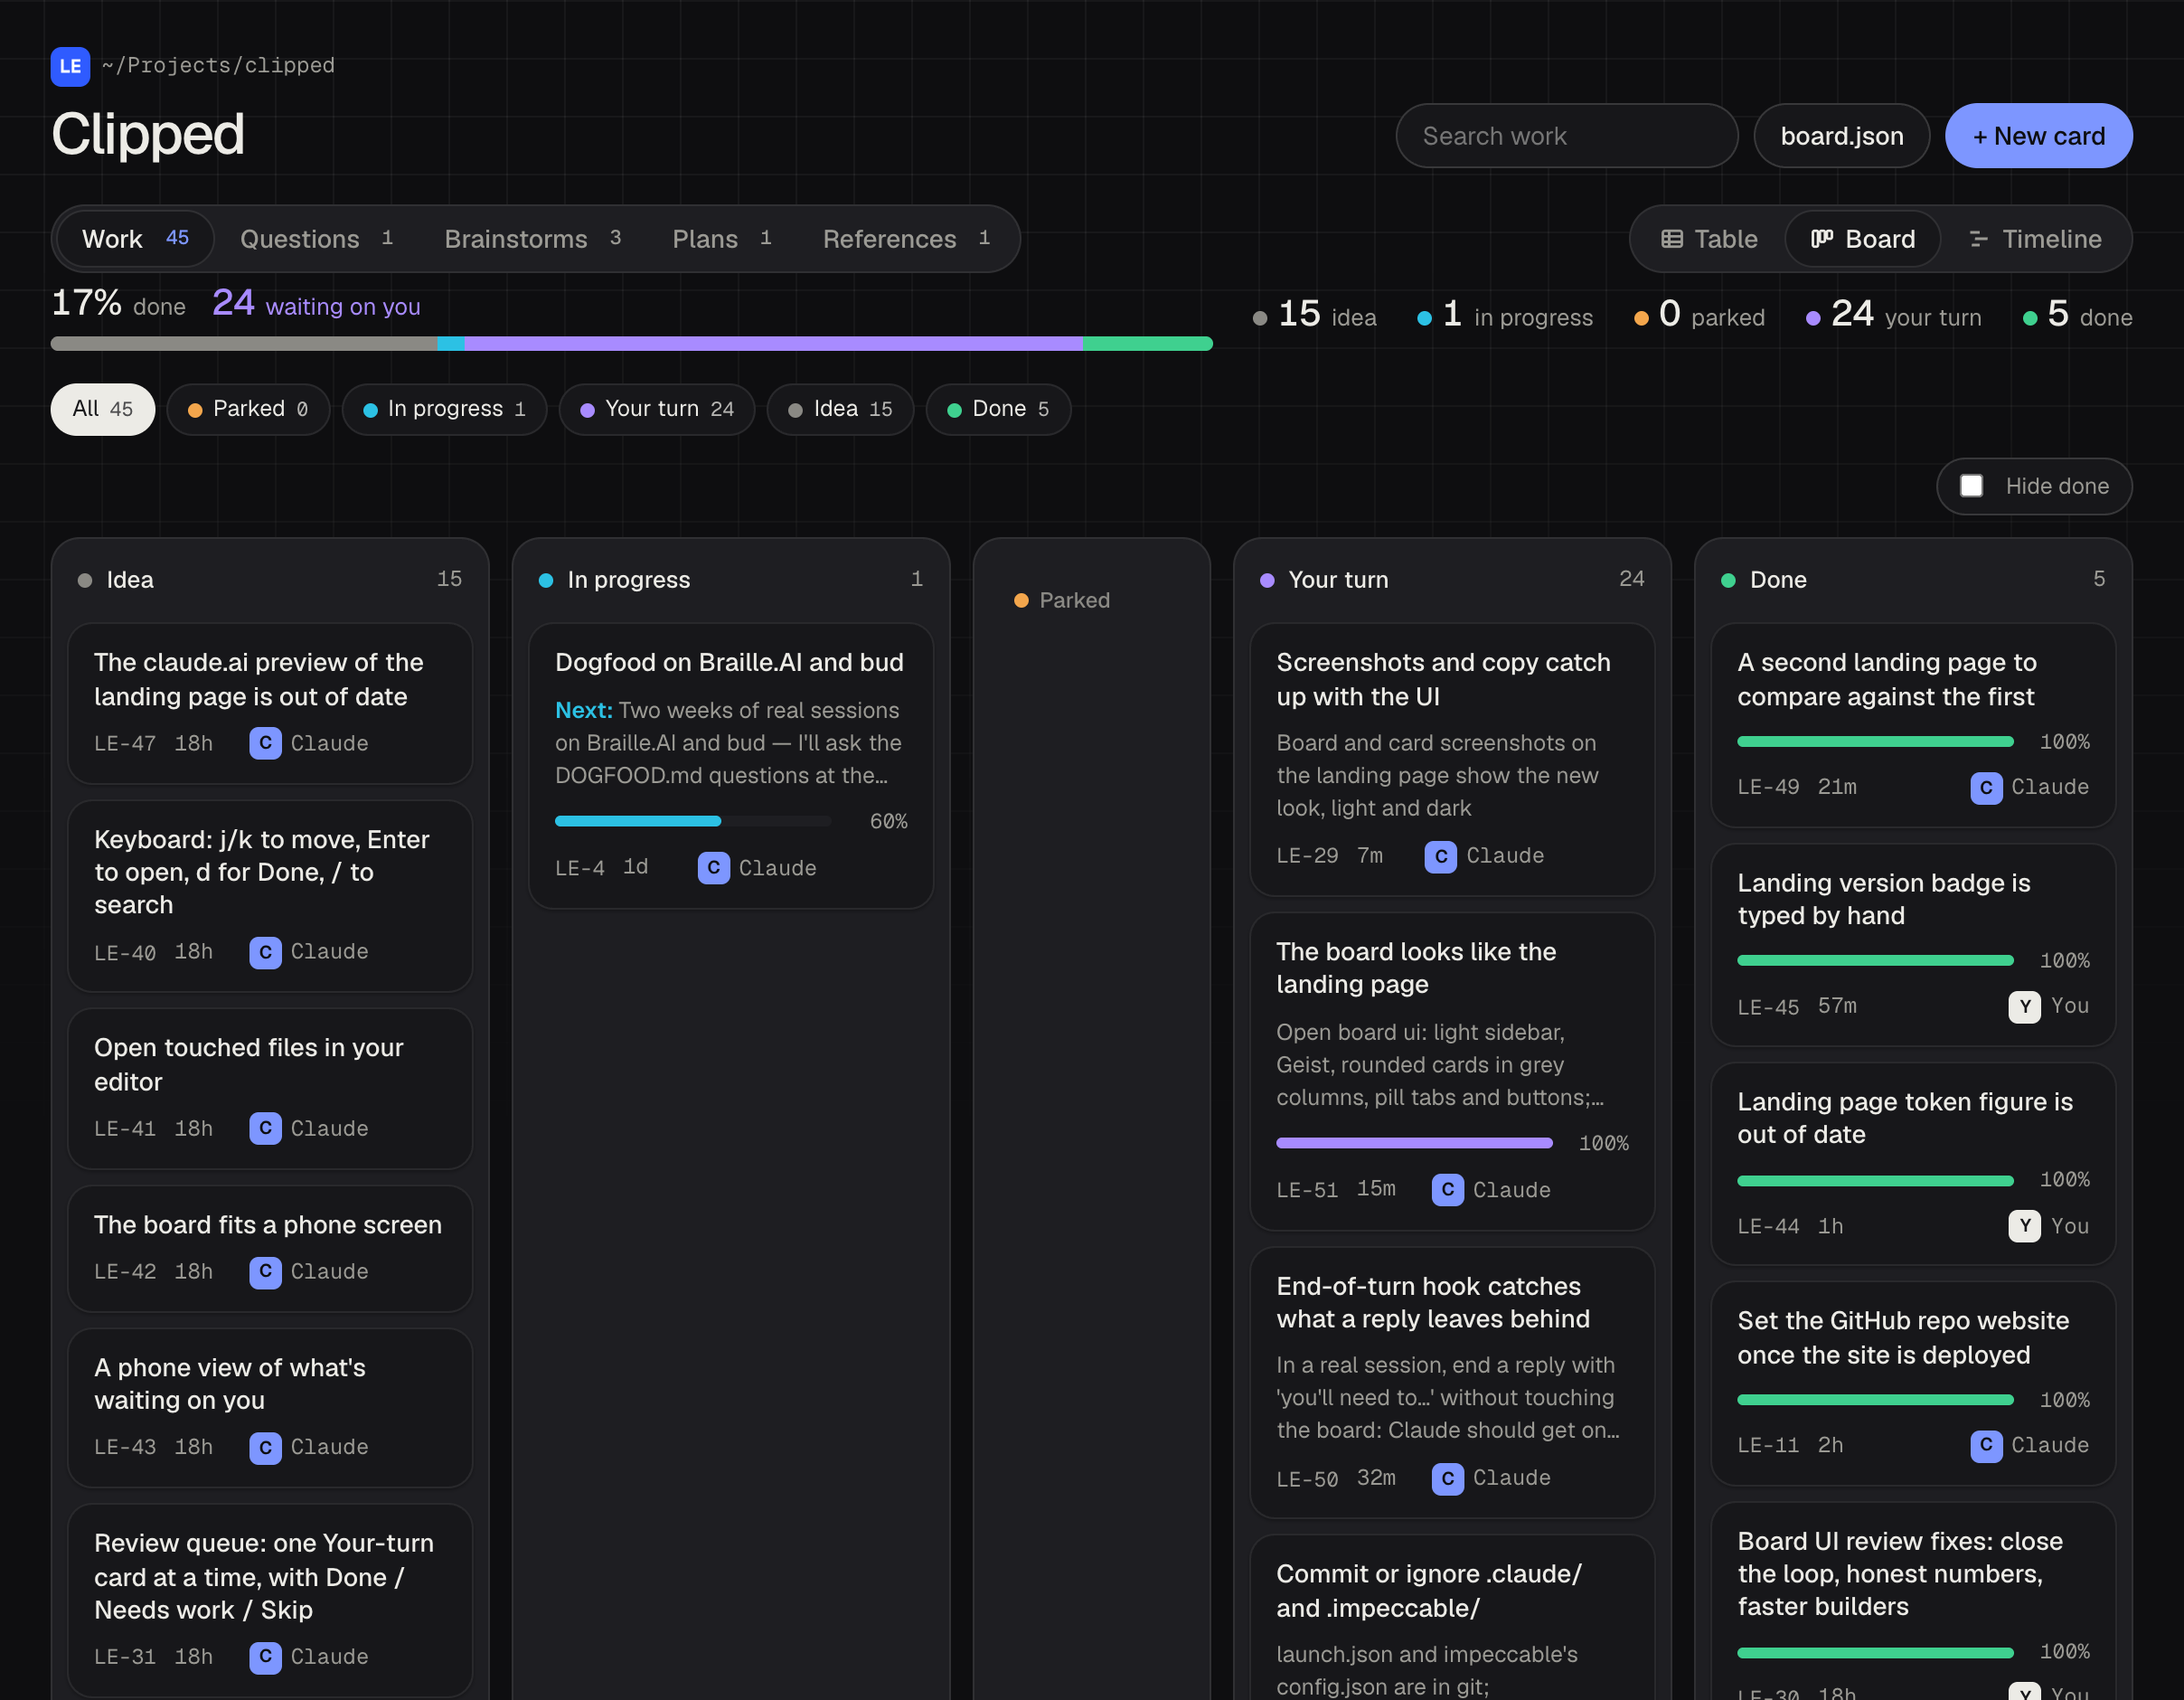
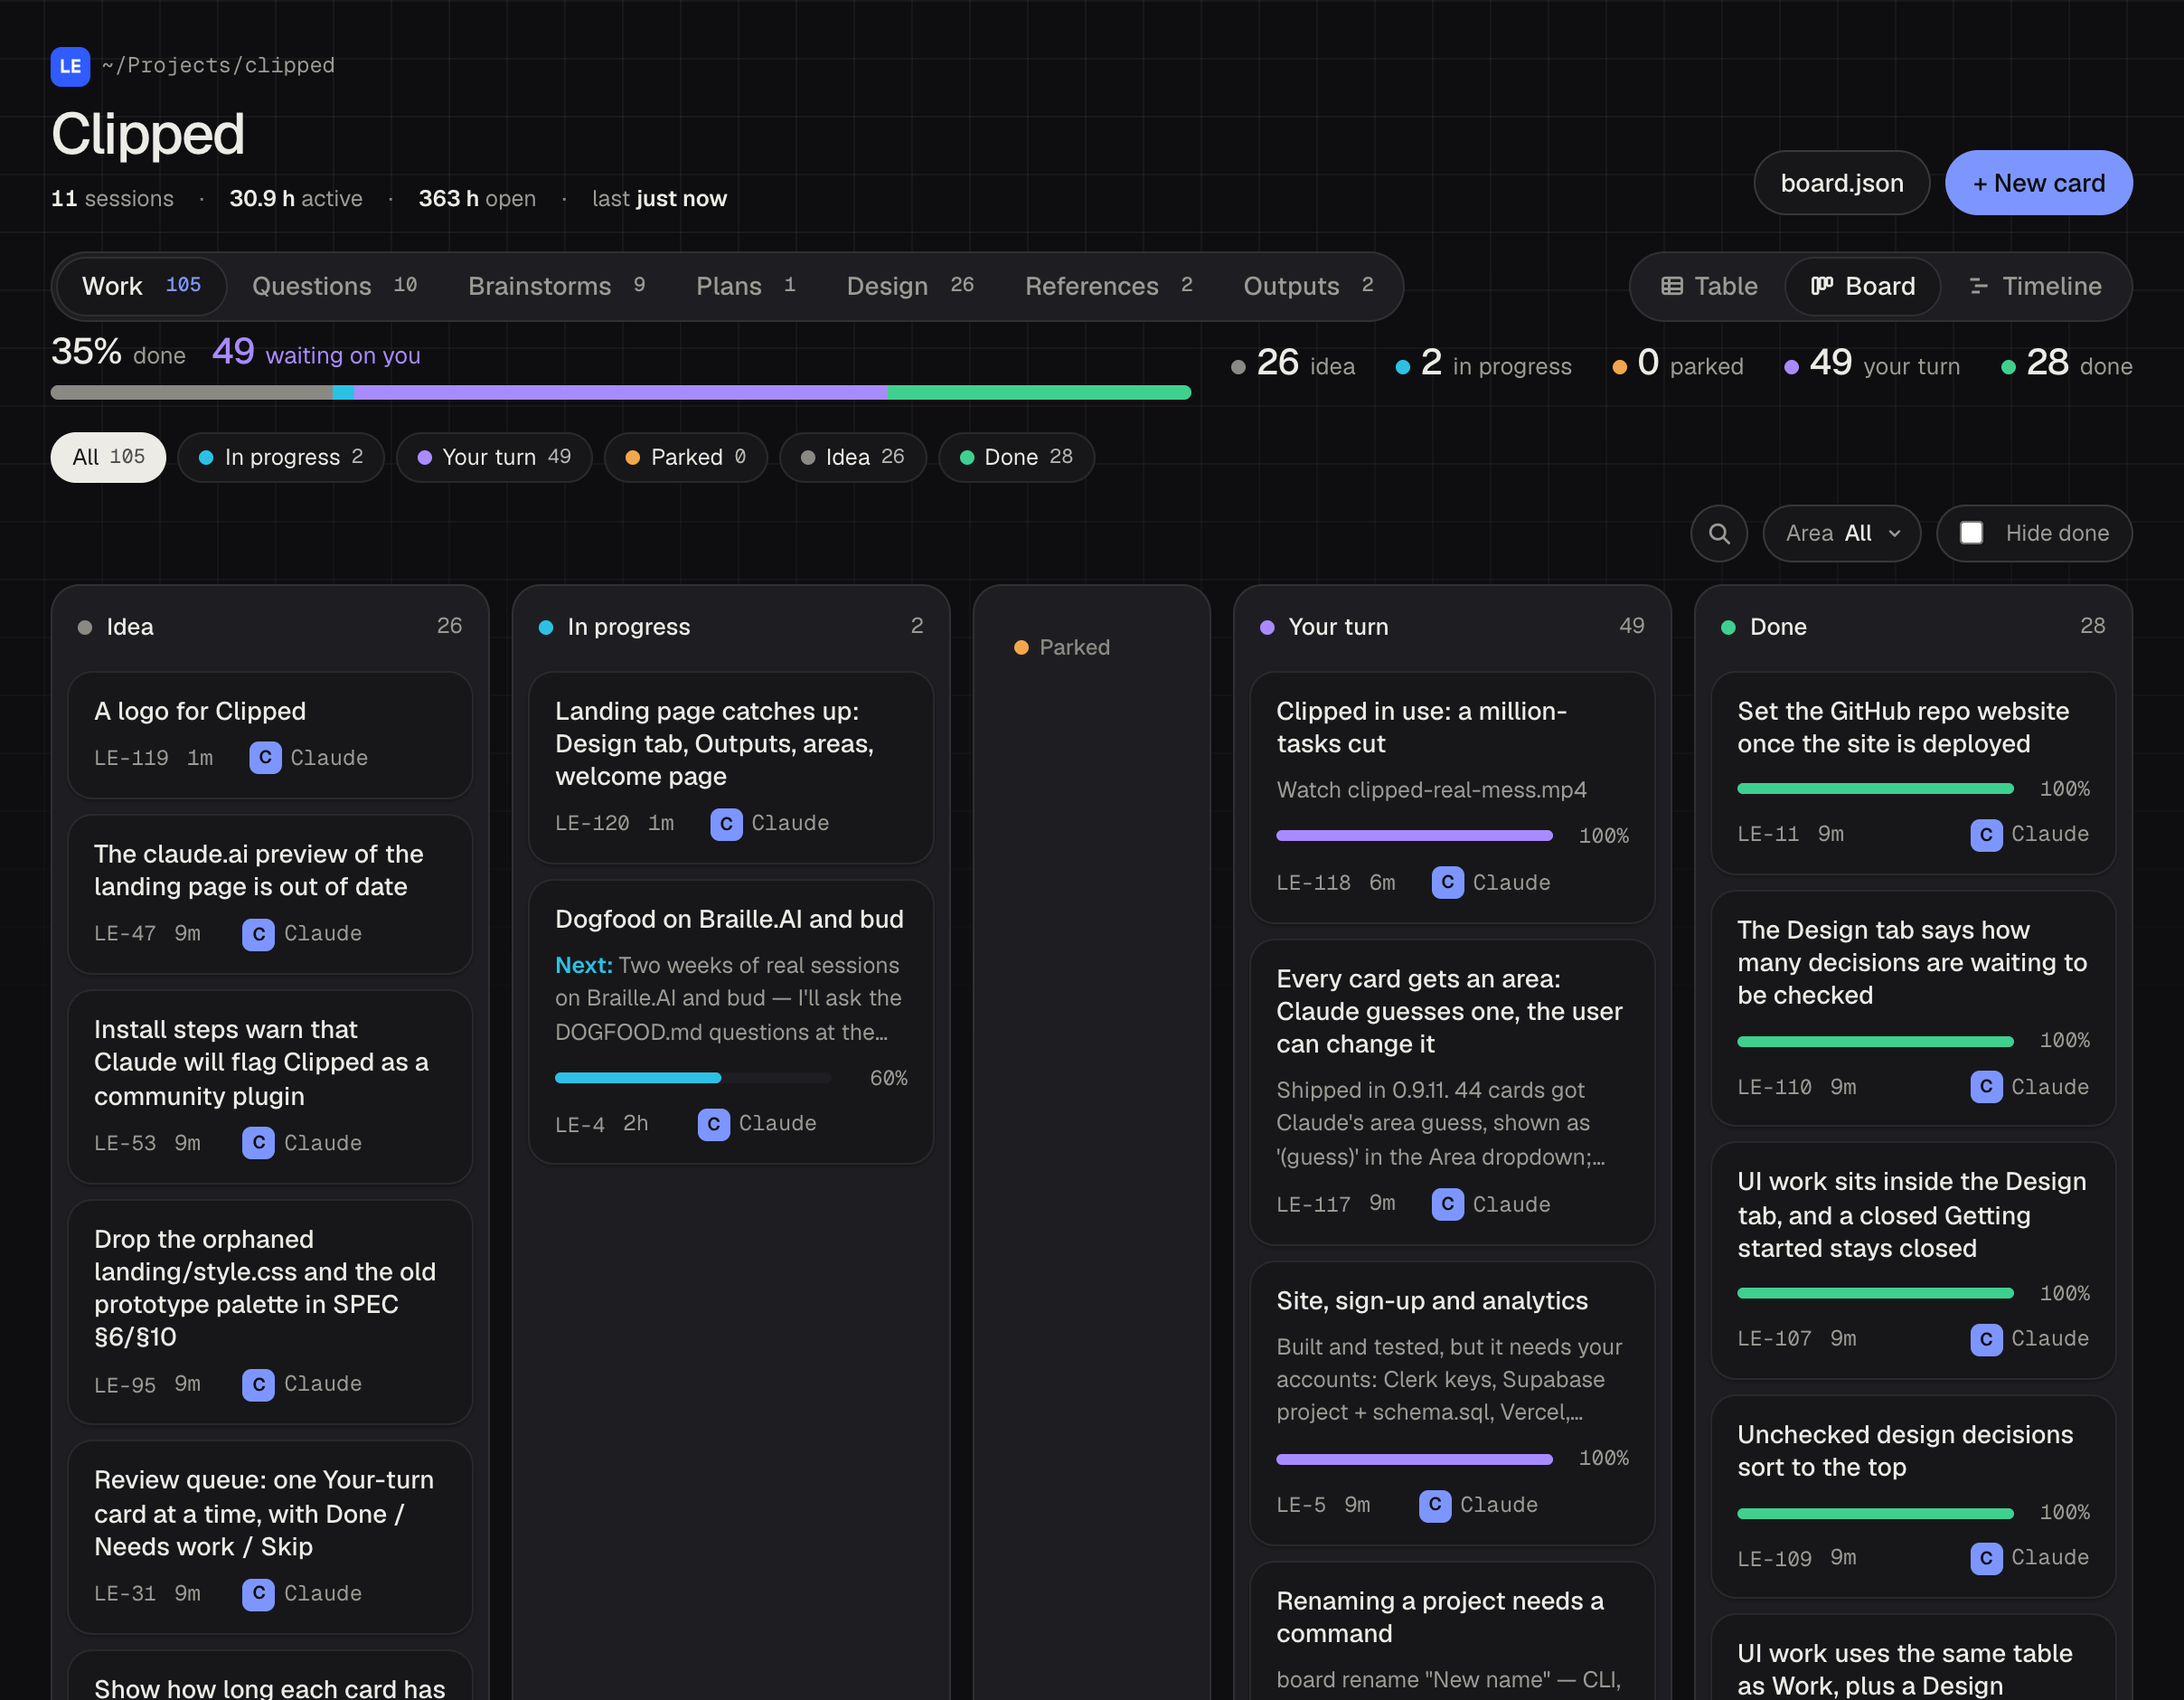
Landing page catches up: Design and Outputs tabs, areas, open the board

diff --git a/landing/index.html b/landing/index.html
@@ -466,7 +466,7 @@ footer a { color: var(--muted); text-underline-offset: 3px; }
       <p>No setup per project and nothing new to learn. You keep working the way you do.</p>
     </div>
     <ol class="steps grid rv">
-      <li><h3>Connects once</h3><p>Two commands add a plugin to Claude Code: the rules Claude follows, and three small hooks. Nothing to set up per project.</p></li>
+      <li><h3>Connects once</h3><p>Two commands add a plugin to Claude Code: the rules Claude follows, and a few small hooks. Nothing to set up per project.</p></li>
       <li><h3>Listens and sorts</h3><p>As you work, Claude sorts what's happening into a feature, a bug, a question or a brainstorm. Small talk isn't recorded.</p></li>
       <li><h3>Lands on your board</h3><p>Each project gets a board file in its own folder: what's in progress, what's parked halfway, what's waiting on you.</p></li>
     </ol>
@@ -515,9 +515,9 @@ footer a { color: var(--muted); text-underline-offset: 3px; }
       </div>
       <div class="card rv">
         <div class="vis">
-          <div class="chips"><span class="on">Work</span><span>Questions</span><span>Brainstorms</span><span>Plans</span><span>References</span></div>
+          <div class="chips"><span class="on">Work</span><span>Questions</span><span>Brainstorms</span><span>Plans</span><span>Design</span><span>References</span><span>Outputs</span></div>
         </div>
-        <div class="txt"><h3>Nothing lives only in the chat</h3><p>Cards for work with a next step. Notes for the thinking around it.</p></div>
+        <div class="txt"><h3>Nothing lives only in the chat</h3><p>Cards for work with a next step. Notes for the thinking around it. Design calls and what Claude made get their own tabs.</p></div>
       </div>
     </div>
   </section>
@@ -562,6 +562,7 @@ footer a { color: var(--muted); text-underline-offset: 3px; }
         <div class="hdr"><h3>Notes — the thinking around it</h3><p>Linked to the cards they led to.</p></div>
         <ul class="types">
           <li><span class="dot" style="background: var(--active)"></span><b>Brainstorm</b><span>A conversation that reached a decision. It says what was decided, not everything that was said.</span></li>
+          <li><span class="dot" style="background: var(--accent)"></span><b>Design decision</b><span>A call on how the product looks or reads — made by you or by Claude. The ones Claude made wait for you to check, in the Design tab.</span></li>
           <li><span class="dot" style="background: var(--done)"></span><b>Plan</b><span>A spec or plan you wrote. The document keeps the reasoning; the board tracks what came of it.</span></li>
           <li><span class="dot" style="background: var(--muted)"></span><b>Reference</b><span>A link you'd look up twice — only the ones that were actually used.</span></li>
         </ul>
@@ -586,6 +587,8 @@ footer a { color: var(--muted); text-underline-offset: 3px; }
           <li><b>Next step</b><span>When a card is parked, this is where you stopped.</span></li>
           <li><b>Steps</b><span>A checklist Claude ticks off as it goes.</span></li>
           <li><b>Continue with Claude</b><span>A ready prompt to paste into a new session.</span></li>
+          <li><b>Area</b><span>Which part of the product it touches, guessed from its files. Filter the board by it.</span></li>
+          <li><b>Outputs</b><span>What Claude made that you can open — a local app, a deploy, a pull request — one click away.</span></li>
           <li><b>Files and activity</b><span>Every file touched, and who changed what.</span></li>
         </ul>
       </div>
@@ -598,11 +601,11 @@ footer a { color: var(--muted); text-underline-offset: 3px; }
       <div class="stage shot-stage">
         <div class="window">
           <div class="chrome"><i></i><i></i><i></i><span>clipped.localhost:4747</span></div>
-          <img class="img-light" src="img/board-light.png" width="2416" height="1880" alt="The Clipped board: a table of cards with status, progress and next step, grouped by In progress, Parked and Your turn." loading="lazy">
+          <img class="img-light" src="img/board-light.png" width="2416" height="1880" alt="The Clipped board: cards in columns from Idea to Done, with tabs for Work, Questions, Brainstorms, Plans, Design, References and Outputs." loading="lazy">
           <img class="img-dark" src="img/board.png" width="2416" height="1880" alt="" aria-hidden="true" loading="lazy">
         </div>
       </div>
-      <p class="caption">This project's own board. Type <code>board ui</code> and it opens in your browser, updating live while Claude works.</p>
+      <p class="caption">This project's own board. Ask Claude to open the board, or type <code>board ui</code>. It updates live while Claude works.</p>
     </div>
   </section>
 

diff --git a/landing/install.html b/landing/install.html
@@ -453,7 +453,7 @@ footer a { color: var(--muted); text-underline-offset: 3px; }
         <p>It does <b>not</b> work in the regular Claude chat (the Chat tab, or claude.ai in a browser). The board is a file inside your project folder, and Claude updates it by running a small command on your computer. Chat can't reach either.</p>
 
         <h3>Node 20 or newer</h3>
-        <p>The board command and the three hooks are small Node scripts. To check, open a terminal and run:</p>
+        <p>The board command and its hooks are small Node scripts. To check, open a terminal and run:</p>
         <div class="cmds">
               <div class="cmd"><span class="p">$</span><code>node -v</code><button class="copy" type="button" aria-label="Copy"></button></div>
             </div>
@@ -533,7 +533,7 @@ footer a { color: var(--muted); text-underline-offset: 3px; }
         <div class="cmds">
               <div class="cmd"><span class="p">›</span><code>/clipped:board</code><button class="copy" type="button" aria-label="Copy"></button></div>
             </div>
-        <p>The board opens in your browser at <code>clipped.localhost:4747</code> (<code>localhost:4747</code> works too). The sidebar lists every project on this computer that has a board. Keep the tab open: it updates live while Claude works, and new projects appear on their own.</p>
+        <p>The board opens in your browser at <code>clipped.localhost:4747</code> (<code>localhost:4747</code> works too). Saying "open the board" to Claude does the same. The first time, a welcome page lists your projects and fills in live as Claude records the first task. The sidebar lists every project on this computer that has a board, and each project has tabs for Work, Questions, Brainstorms, Plans, Design, References and Outputs. Keep the tab open: it updates live while Claude works, and new projects appear on their own.</p>
         <p><code>/clipped:board status</code> prints the same summary in the chat instead.</p>
       </section>
 
